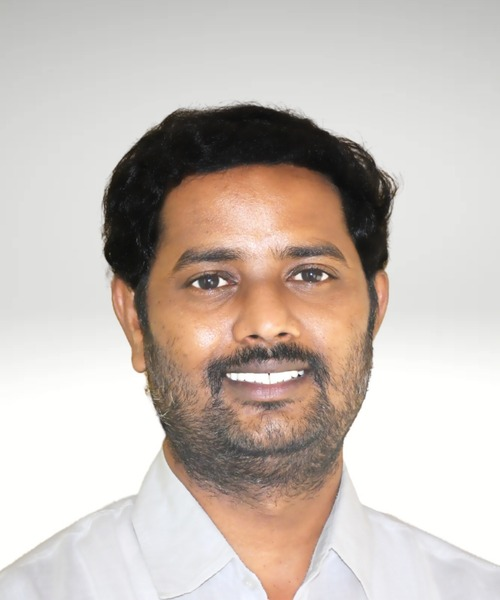
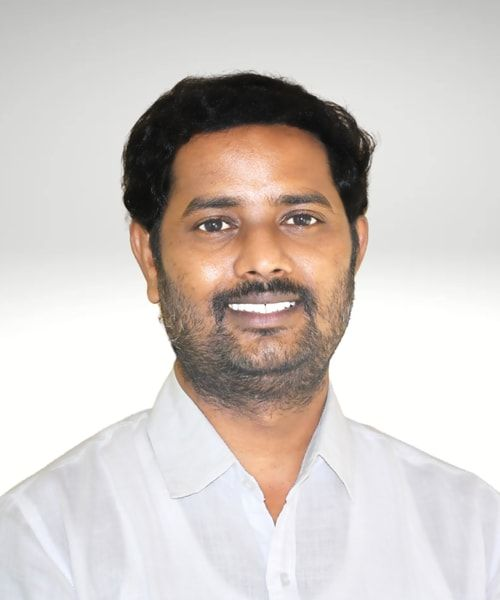
Fix Mr. N. Sai faculty photo framing and add faculty updates

diff --git a/lib/site-data.ts b/lib/site-data.ts
@@ -229,6 +229,13 @@ export const lfjcData = {
       department: "Mathematics Department",
       image: "/images/faculty/sharanraj.jpg"
     },
+    {
+      name: "Mr. Nellutla Kiran Prasad",
+      designation: "Faculty",
+      subject: "Mathematics",
+      department: "Mathematics Department",
+      image: "/images/faculty/nellutlakiranprasad.jpg"
+    },
     // 3. Physics Department
     {
       name: "Mr. R Srikanth",
